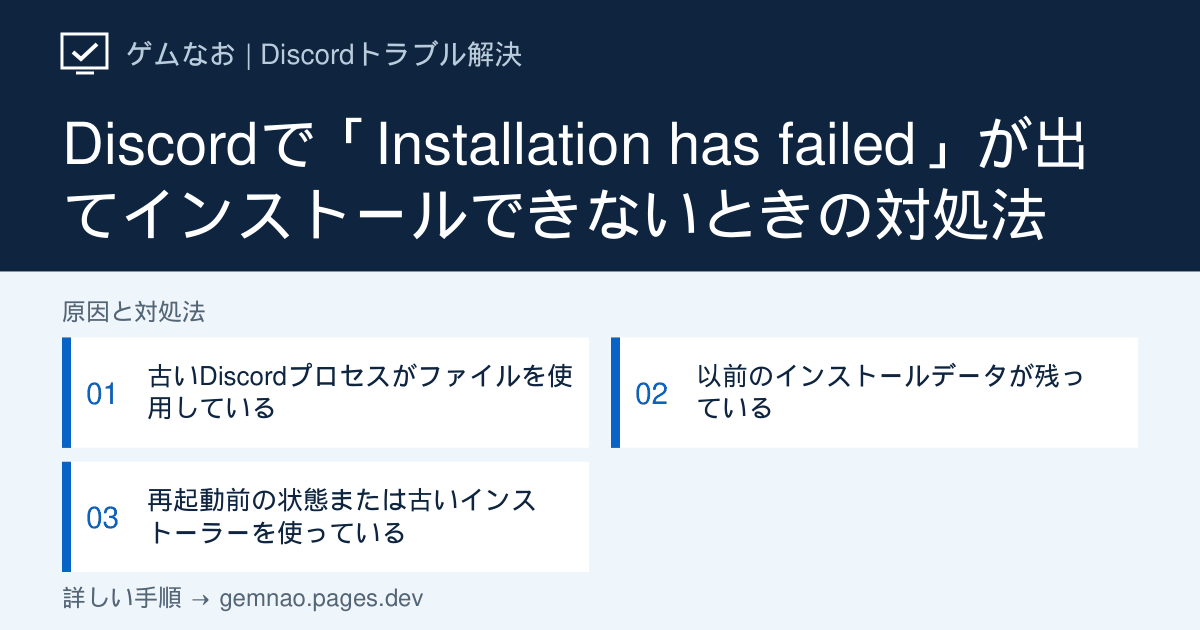
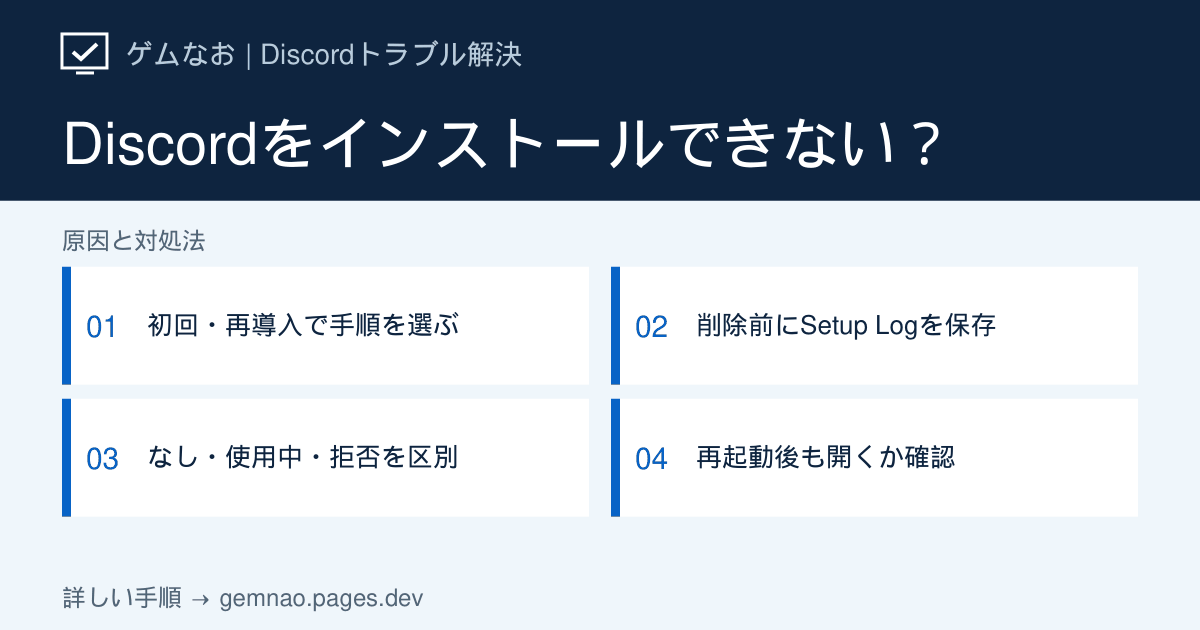
Improve Discord installation guide with setup log and failure branches

diff --git a/lib/discord-p0-articles.ts b/lib/discord-p0-articles.ts
@@ -118,84 +118,94 @@ export const discordP0Articles: DiscordArticle[] = [
     ogSteps: ['削除前→ブラウザ版と比較', '同じPC→別回線で比較', 'アプリだけ→完全終了', '条件を確認→再インストール'],
   },
   {
-    slug: 'installation-failed',
-    category: 'launch',
-    title:
-      'Discordで「Installation has failed」が出てインストールできないときの対処法',
+    slug: 'installation-failed', category: 'launch',
+    title: 'DiscordのInstallation has failedを直す｜初回・再インストールとログで切り分け',
     shortTitle: 'Installation has failed',
-    seoTitle:
-      'Discord「Installation has failed」の直し方｜インストールできない場合',
-    metaDescription:
-      'DiscordでInstallation has failedが出てインストールできない場合のWindows向け手順。残存プロセス、AppData、再起動、公式インストーラーの順に確認します。',
-    symptom:
-      'DiscordSetup.exeを実行すると「Installation has failed」などのエラーが出て、インストールまたは再インストールを完了できない場合の手順です。',
-    target: 'Windows 11 / Windows 10版 Discordインストーラー',
-    conclusion:
-      'Discordのプロセスをすべて終了し、%AppData%と%LocalAppData%に残ったDiscordフォルダーを削除してから、PCを再起動して公式インストーラーを実行します。',
-    quickFixes: [
-      'タスクマネージャーでDiscord関連プロセスをすべて終了する',
-      '%AppData%と%LocalAppData%のDiscordフォルダーを削除する',
-      'PCを再起動し、公式サイトから入手したインストーラーを実行する',
+    seoTitle: 'Discord「Installation has failed」の直し方｜初回・再インストール別',
+    metaDescription: 'Discordをインストールできない時の対処を初回・再導入で整理。Discordフォルダーがない・削除できない場合、Open Setup Logで見る日時とエラー、相談時に伏せる情報、修復後の確認まで解説します。',
+    symptom: 'DiscordSetup.exeの実行後に「Installation has failed」が出る、または再インストールを完了できない場合の手順です。起動時のUpdate Failedは別記事で通信と更新処理を確認してください。',
+    target: 'Windows 11／Windows 10のDiscord通常版インストーラー',
+    conclusion: '初回は公式インストーラーの取得と再起動後の再試行から、再導入はDiscordの完全終了から確認します。失敗が続く場合は先にSetup Logを保存し、残っているDiscordフォルダーだけを整理します。フォルダーがなければ削除を省略。「使用中」と「アクセス拒否」は分けて対処し、同じ失敗を繰り返す場合はログの該当箇所を添えて相談してください。',
+    quickFixes: ['初回か再導入かを確認し、エラー画面と発生時刻を控える', 'ログを保存してから、存在するDiscordフォルダーだけを整理する', '公式インストーラーで再試行し、同じエラーなら削除を繰り返さずログで確認する'],
+    showStatusCheck: false,
+    diagnosisTitle: '初回・再導入・削除時の表示で選ぶ確認表',
+    diagnosisIntro: '初回でも、失敗したインストールが途中まで作ったデータは残る場合があります。初回だから削除必須、再導入だから破損確定、と決めつけず実際の状態で進めます。',
+    diagnosis: [
+      { symptom: '初めて入れる／まだ正常に起動したことがない', check: '公式ファイルの取得と再起動後の再試行。失敗時はログを保存', causeIndex: 1 },
+      { symptom: '以前使っていた／アンインストール後の再導入', check: 'ログイン手段を確保し、Discordを完全終了', causeIndex: 2 },
+      { symptom: 'Discordフォルダーが見つからない', check: '2か所を確認し、存在しない場所の削除は省略', causeIndex: 4 },
+      { symptom: '削除時に「使用中」と出る', check: '残存プロセスと自動起動を確認してから再試行', causeIndex: 4 },
+      { symptom: '削除時に「アクセス拒否」などが出る', check: '表示を保存。強制削除せず権限・ブロック記録を確認', causeIndex: 4 },
+      { symptom: '再起動・再導入後も同じエラー', check: '今回の時刻に対応するログのエラーと前後の処理を確認', causeIndex: 3 },
     ],
     causes: [
       {
-        title: '古いDiscordプロセスがファイルを使用している',
-        description:
-          '以前のDiscordがバックグラウンドに残ると、インストーラーがファイルを更新できません。',
+        title: '初回インストールは、取得元と失敗した段階を確認する',
+        description: 'ダウンロード自体の失敗、実行のブロック、実行後のInstallation has failedを分けて記録します。',
         actions: [
-          '通知領域にDiscordがあれば右クリックして終了する',
-          'Ctrl＋Shift＋Escでタスクマネージャーを開く',
-          'Discordに関するプロセスをすべて終了する',
-          'DiscordSetup.exeをもう一度実行する',
+          'https://discord.com/download でWindows版を取得する。保存が完了しない場合は通信・ブラウザのエラーを先に確認し、AppDataの削除へ進まない。',
+          '画面のエラー文と発生時刻を控える。Windowsやセキュリティ製品が実行を止めた場合は、その通知内容を確認する。保護機能をまとめてオフにしない。',
+          '開いている作業を保存してWindowsを再起動し、取得した公式インストーラーを1回実行する。正常に起動したらSTEP 5で確認する。',
+          '再びInstallation has failedなら、STEP 3でログを保存してからSTEP 4へ。初回でも途中の残存データがあるかを確認する。',
         ],
       },
       {
-        title: '以前のインストールデータが残っている',
-        description:
-          'アンインストール後も残るデータが、新しいインストールと競合する場合があります。',
+        title: '再インストールは、ログイン手段を確保して完全終了する',
+        description: '以前のDiscordが動いていると、ファイルの整理や置き換えが進まない場合があります。ウィンドウを閉じるだけでなく通知領域も確認します。',
         actions: [
-          'ログイン情報と二要素認証を利用できることを確認し、ローカル設定を控えてDiscordを完全終了する',
-          'Windows＋Rを押して%appdata%を開く',
-          'Discordフォルダーを削除する',
-          'Windows＋Rを押して%localappdata%を開く',
-          'Discordフォルダーを削除する',
+          '登録メール、パスワード、二要素認証やバックアップコードを使えることを確認する。開ける場合は音声設定・キー割り当ても控える。別端末でログイン中ならログアウトしなくてよい。',
+          'タスクバー右下のDiscordアイコンを右クリックして終了する。Ctrl＋Shift＋Escでタスクマネージャーを開き、残っているDiscordも終了する。',
+          'Update.exeがある場合は右クリック→「ファイルの場所を開く」でDiscordフォルダー内と確認できたものだけを終了する。同名という理由で他アプリの更新処理を止めない。',
+          'インストーラーを再試行し、失敗するならSTEP 3で今回のログを保存する。整理時はブラウザ版のDiscordタブも閉じ、STEP 4へ進む。',
         ],
       },
       {
-        title: '再起動前の状態または古いインストーラーを使っている',
-        description:
-          'プロセスや一時ファイルを確実に解放し、公式配布の新しいファイルで試します。',
+        title: 'Open Setup Logでは、今回の日時・失敗行・前後の処理を見る',
+        description: 'ログは原因を絞る手がかりです。最後の1行や特定の単語だけで原因を断定せず、今回失敗した時刻のまとまりを確認します。以下の英語は探す語の例で、必ず記録されるとは限りません。',
         actions: [
-          'Windowsを再起動する',
-          'discord.com/downloadからWindows版をダウンロードする',
-          'ダウンロードしたDiscordSetup.exeを実行する',
+          'エラー画面に「Open Setup Log」があれば開き、表示されたテキストを別名で保存する。ボタンがない・開けない場合はエラー画面を保存し、その事実も記録する。推測した場所のファイルを削除しない。',
+          '末尾付近から今回の実行日時を探す。複数回の試行が含まれる場合は、以前のエラーと今回のエラーを混ぜない。日時が読み取れない場合は、画面を撮った時刻と取得直後のログを残す。',
+          'メモ帳のCtrl＋Fなどで Error、Exception、failed を探し、該当行と前後の処理を読む。切り出す場合は前後10〜20行程度を出発点にし、関連する例外の続きがあれば含める。',
+          '「Access is denied」「UnauthorizedAccessException」などなら権限・ブロック記録、「being used by another process」などなら使用中の対象、「download」「timeout」などなら通信に関する行を確認する。単語は分類の手がかりであり、原因確定ではない。',
+          '対象のファイル・パス、エラーの全文、直前に何をしていたかを控える。意味が分からなければ書き換えず保存し、STEP 5の相談資料にする。',
         ],
-        note: '非公式のダウンロードサイトから入手したインストーラーは使用しないでください。',
+        note: '元ログは手元に残し、共有用コピーでWindowsユーザー名、メールアドレス、端末名、個人フォルダー名を伏せます。URLにトークンなどの値があれば隠し、パスワード・認証コードは送らないでください。例：C:/Users/＜ユーザー名＞/AppData/Local/Discord/...。エラー名やDiscord以下の構造は可能な範囲で残します。',
+      },
+      {
+        title: '残存フォルダーを確認し、ない・使用中・拒否を分けて進む',
+        description: '公式の整理対象はAppDataとLocalAppData内のDiscordフォルダーです。ログを先に保存し、再ログイン手段と公式インストーラーを確保してから実施します。',
+        actions: [
+          'Windows＋Rに %appdata% を入力して開き、その中のDiscordフォルダーを確認する。次にWindows＋Rで %localappdata% を開き、同じ名前のフォルダーを確認する。',
+          'Discordを完全終了したうえで、存在するDiscordフォルダーだけを削除する。一方または両方がなければその削除を省略する。空のフォルダーを作る必要はない。AppDataやLocal全体、別アプリのフォルダーは消さない。',
+          '「使用中」ならSTEP 2のプロセス確認へ戻る。再起動直後にDiscordが自動で開く場合は、タスクマネージャーのスタートアップアプリでDiscordだけを一時的に無効にし、再起動後に確認する。',
+          '「アクセス拒否」なら文言と対象パスを控え、セキュリティ製品の通知・保護履歴を確認する。管理されたPCなら管理者へ相談する。所有権の変更や強制削除コマンドで押し切らない。',
+          '整理できたらWindowsを再起動し、公式インストーラーを実行する。削除できない場合はその状態を記録してSTEP 5へ進み、同じ操作を繰り返さない。',
+        ],
+      },
+      {
+        title: '起動・再起動で完了を確認し、再失敗なら比較結果を添えて相談する',
+        description: 'インストーラーの画面が消えただけでは成功と判断しません。アプリが開くか、次の起動でも使えるかを確認します。',
+        actions: [
+          'Discordを開いてログインし、チャンネルと既存メッセージを読み込めるか確認する。アプリを終了して起動し直し、同じエラーが出なければ導入完了と判断する。',
+          '自動起動を一時的に無効にした場合は、必要に応じて元へ戻す。音声機器やキー割り当ても確認し直す。',
+          'ログイン画面まで進んで認証だけ失敗するなら「ログインできない」、起動時にUpdate Failedへ変わったなら「Update Failed・更新ループ」の記事へ進む。インストールエラーとして削除を続けない。',
+          '同じエラーが残る場合は、初回／再導入、Windowsのバージョン、入手元、発生時刻、削除対象の有無、完全終了・再起動後の結果、共有用ログをまとめてDiscord公式サポートへ送る。',
+        ],
       },
     ],
-    ifNotFixed:
-      '公式手順を完了しても失敗する場合は、エラー画面の「Open Setup Log」などから内容を確認し、スクリーンショットとログ、Windowsのバージョン、試した手順を添えてDiscordサポートへ連絡してください。',
+    ifNotFixed: '相談用の記録例：「初回導入／公式サイトから取得／再起動後も同じ／AppDataのDiscordはなし、LocalAppDataにはあり／エラー発生は9:30／ログの該当行と前後を添付」。これは記入例です。実際の結果に置き換え、未確認の項目は未確認と書いてください。',
     faqs: [
-      {
-        question: 'Discordをアンインストールしただけでは不十分ですか？',
-        answer:
-          '以前のデータがAppDataやLocalAppDataに残ることがあります。公式サポートも両方のDiscordフォルダーを削除してから再起動・再インストールする手順を案内しています。',
-      },
-      {
-        question: 'Microsoft Store版へ切り替えてもよいですか？',
-        answer:
-          '切り分けには使えますが、まずは公式サポートが案内するWindows版のクリーン再インストールを行い、同じエラーが再現するか確認してください。',
-      },
-      {
-        question: 'Discordフォルダーを削除できません',
-        answer:
-          'Discordのプロセスが残っている可能性があります。タスクマネージャーとスタートアップ項目を確認し、難しければPC再起動直後に削除してください。',
-      },
+      { question: '初回なのにDiscordフォルダーがあるのはなぜ？', answer: '失敗した導入が途中までデータを作った可能性があります。存在だけで破損とは断定せず、今回のログを保存してから対象を確認します。' },
+      { question: 'Discordフォルダーが両方ともありません', answer: '残存フォルダーの削除は省略できます。別のフォルダーを探して消したり、空のDiscordフォルダーを作ったりせず、公式インストーラーでの再試行とログ確認へ進んでください。' },
+      { question: 'Open Setup Logがない・開けない場合は？', answer: 'エラー画面、発生時刻、初回か再導入か、試した手順を残して相談できます。ログを取得できなかったことも伝え、不明なログ収集ツールを入れる必要はありません。' },
+      { question: 'ログにErrorがあれば、その行が原因ですか？', answer: '必ずしもそうではありません。失敗の後に出るエラーや過去の試行の行もあり得ます。今回の日時と前後の処理を合わせて確認し、単語だけで設定変更を決めないでください。' },
+      { question: 'AppDataの削除でアカウントも消えますか？', answer: 'PC内のDiscordフォルダー削除はアカウントやサーバーの削除ではありません。ただし端末の設定やログイン状態が作り直される場合があるため、認証手段を確保してから操作します。' },
     ],
-    sources: [installerGuide, damagedInstallGuide],
-    related: ['update-failed', 'not-opening', 'loading-stuck'],
-    checkedAt: '2026-09-23',
-    status: 'verified',
+    sources: [installerGuide, damagedInstallGuide, { label: 'Discord公式：Windows版のダウンロード', url: 'https://discord.com/download' }, { label: 'Discord公式：サポートへの問い合わせ', url: 'https://support.discord.com/hc/en-us/requests/new' }],
+    related: ['update-failed', 'not-opening', 'login-error'],
+    checkedAt: '2026-09-28', status: 'verified',
+    ogTitle: 'Discordをインストールできない？',
+    ogSteps: ['初回・再導入で手順を選ぶ', '削除前にSetup Logを保存', 'なし・使用中・拒否を区別', '再起動後も開くか確認'],
   },
   {
     slug: 'audio-input-not-found',

diff --git a/lib/og-image-manifest.ts b/lib/og-image-manifest.ts
@@ -15,7 +15,7 @@ export const ogImageManifest: Record<string, string> = {
   "/discord/error-1003": "aa3963fa",
   "/discord/game-not-detected": "677b005b",
   "/discord/game-volume-lowers": "51f67981",
-  "/discord/installation-failed": "f0058f33",
+  "/discord/installation-failed": "934a70cc",
   "/discord/loading-stuck": "c18e0bfc",
   "/discord/login-error": "de4a0c87",
   "/discord/mic-not-working": "56b12974",
